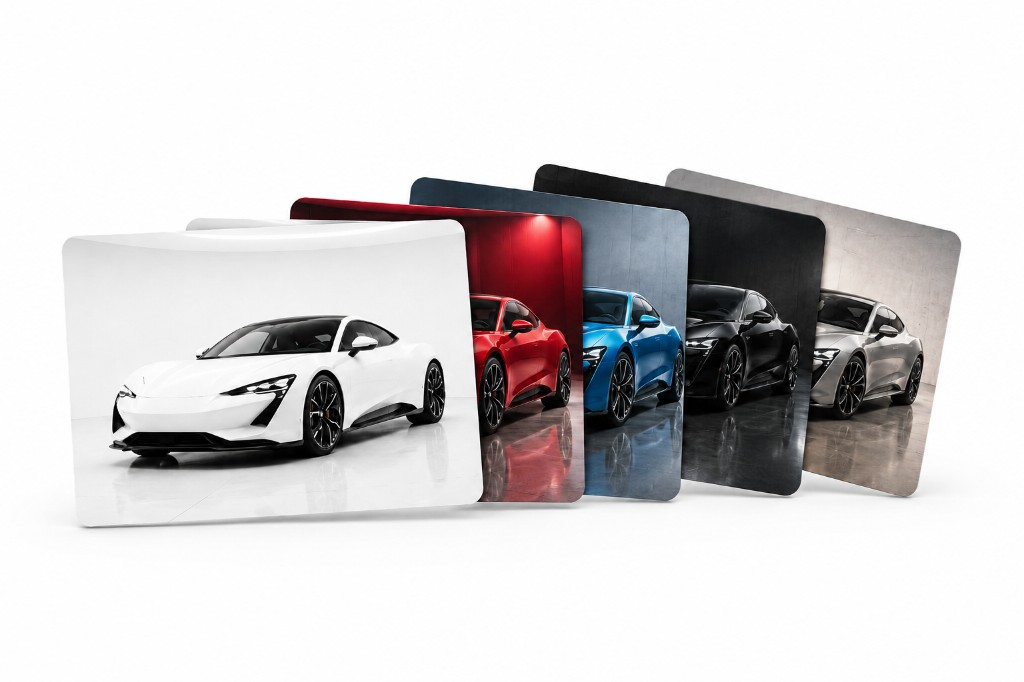
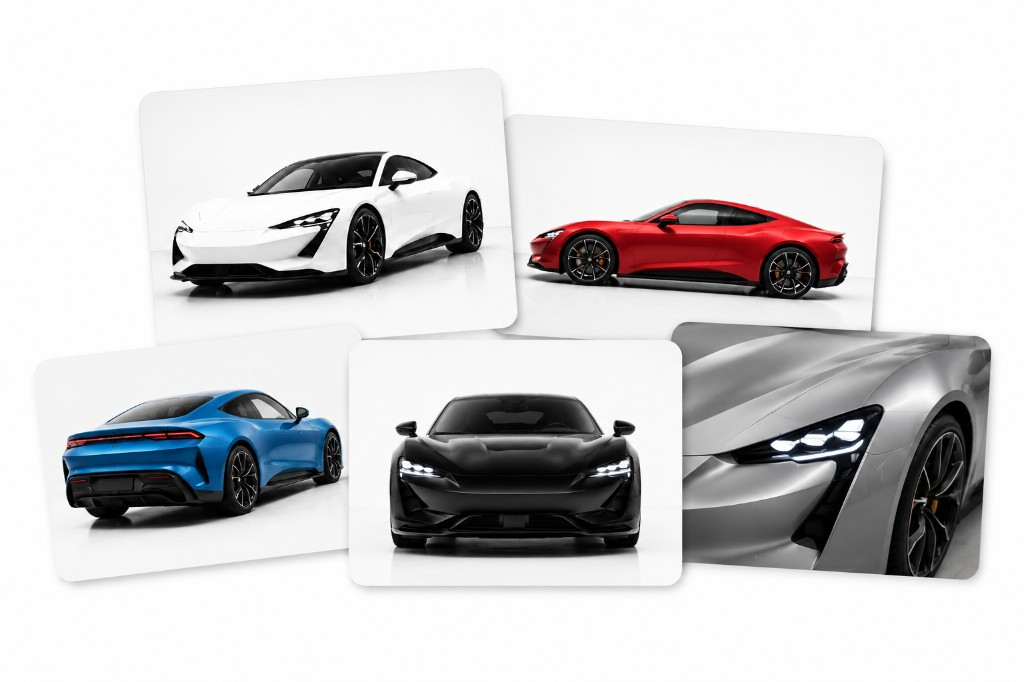
调整样式

diff --git a/src/components/business/workspace/WorkspaceTutorialGuide.vue b/src/components/business/workspace/WorkspaceTutorialGuide.vue
@@ -32,7 +32,10 @@ const tutorialTemplatePreviewImages = computed(
 <template>
   <section
     class="tutorial-section"
-    :class="theme === 'light' ? 'theme-light' : 'theme-dark'"
+    :class="[
+      theme === 'light' ? 'theme-light' : 'theme-dark',
+      { 'is-variant-batch-new': variant === 'batch-new' },
+    ]"
     aria-label="使用教程流程"
   >
     <div class="tutorial-flow">
@@ -50,7 +53,11 @@ const tutorialTemplatePreviewImages = computed(
       >
         <div class="tutorial-placeholder">
           <template v-if="step.layout === 'mosaic'">
-            <div class="tutorial-mosaic" aria-hidden="true">
+            <div
+              class="tutorial-mosaic"
+              :class="{ 'has-center-check': variant === 'batch-new' }"
+              aria-hidden="true"
+            >
               <PreloadImage
                 v-for="(image, mosaicIndex) in tutorialTemplatePreviewImages"
                 :key="image"
@@ -62,6 +69,13 @@ const tutorialTemplatePreviewImages = computed(
                 :draggable="false"
                 fit="cover"
               />
+              <span
+                v-if="variant === 'batch-new'"
+                class="tutorial-mosaic-check"
+                aria-hidden="true"
+              >
+                <Icon icon="mdi:check" />
+              </span>
             </div>
           </template>
           <template v-else-if="step.layout === 'logo'">
@@ -343,6 +357,38 @@ const tutorialTemplatePreviewImages = computed(
   height: 100%;
   object-fit: cover;
   object-position: top center;
+}
+
+.tutorial-section.is-variant-batch-new .tutorial-mosaic-image,
+.tutorial-section.is-variant-batch-new .tutorial-mosaic-image :deep(.preload-image) {
+  border: 1px solid #ffb800;
+  box-sizing: border-box;
+}
+
+.tutorial-mosaic.has-center-check {
+  position: relative;
+}
+
+.tutorial-mosaic-check {
+  position: absolute;
+  top: 50%;
+  left: 50%;
+  z-index: 2;
+  display: grid;
+  place-items: center;
+  width: 32px;
+  height: 32px;
+  border-radius: 999px;
+  background: #ffb800;
+  color: #000000;
+  box-shadow: 0 2px 10px rgba(0, 0, 0, 0.14);
+  pointer-events: none;
+  transform: translate(-50%, -50%);
+}
+
+.tutorial-mosaic-check :deep(svg) {
+  width: 18px;
+  height: 18px;
 }
 
 .tutorial-step-foot {
